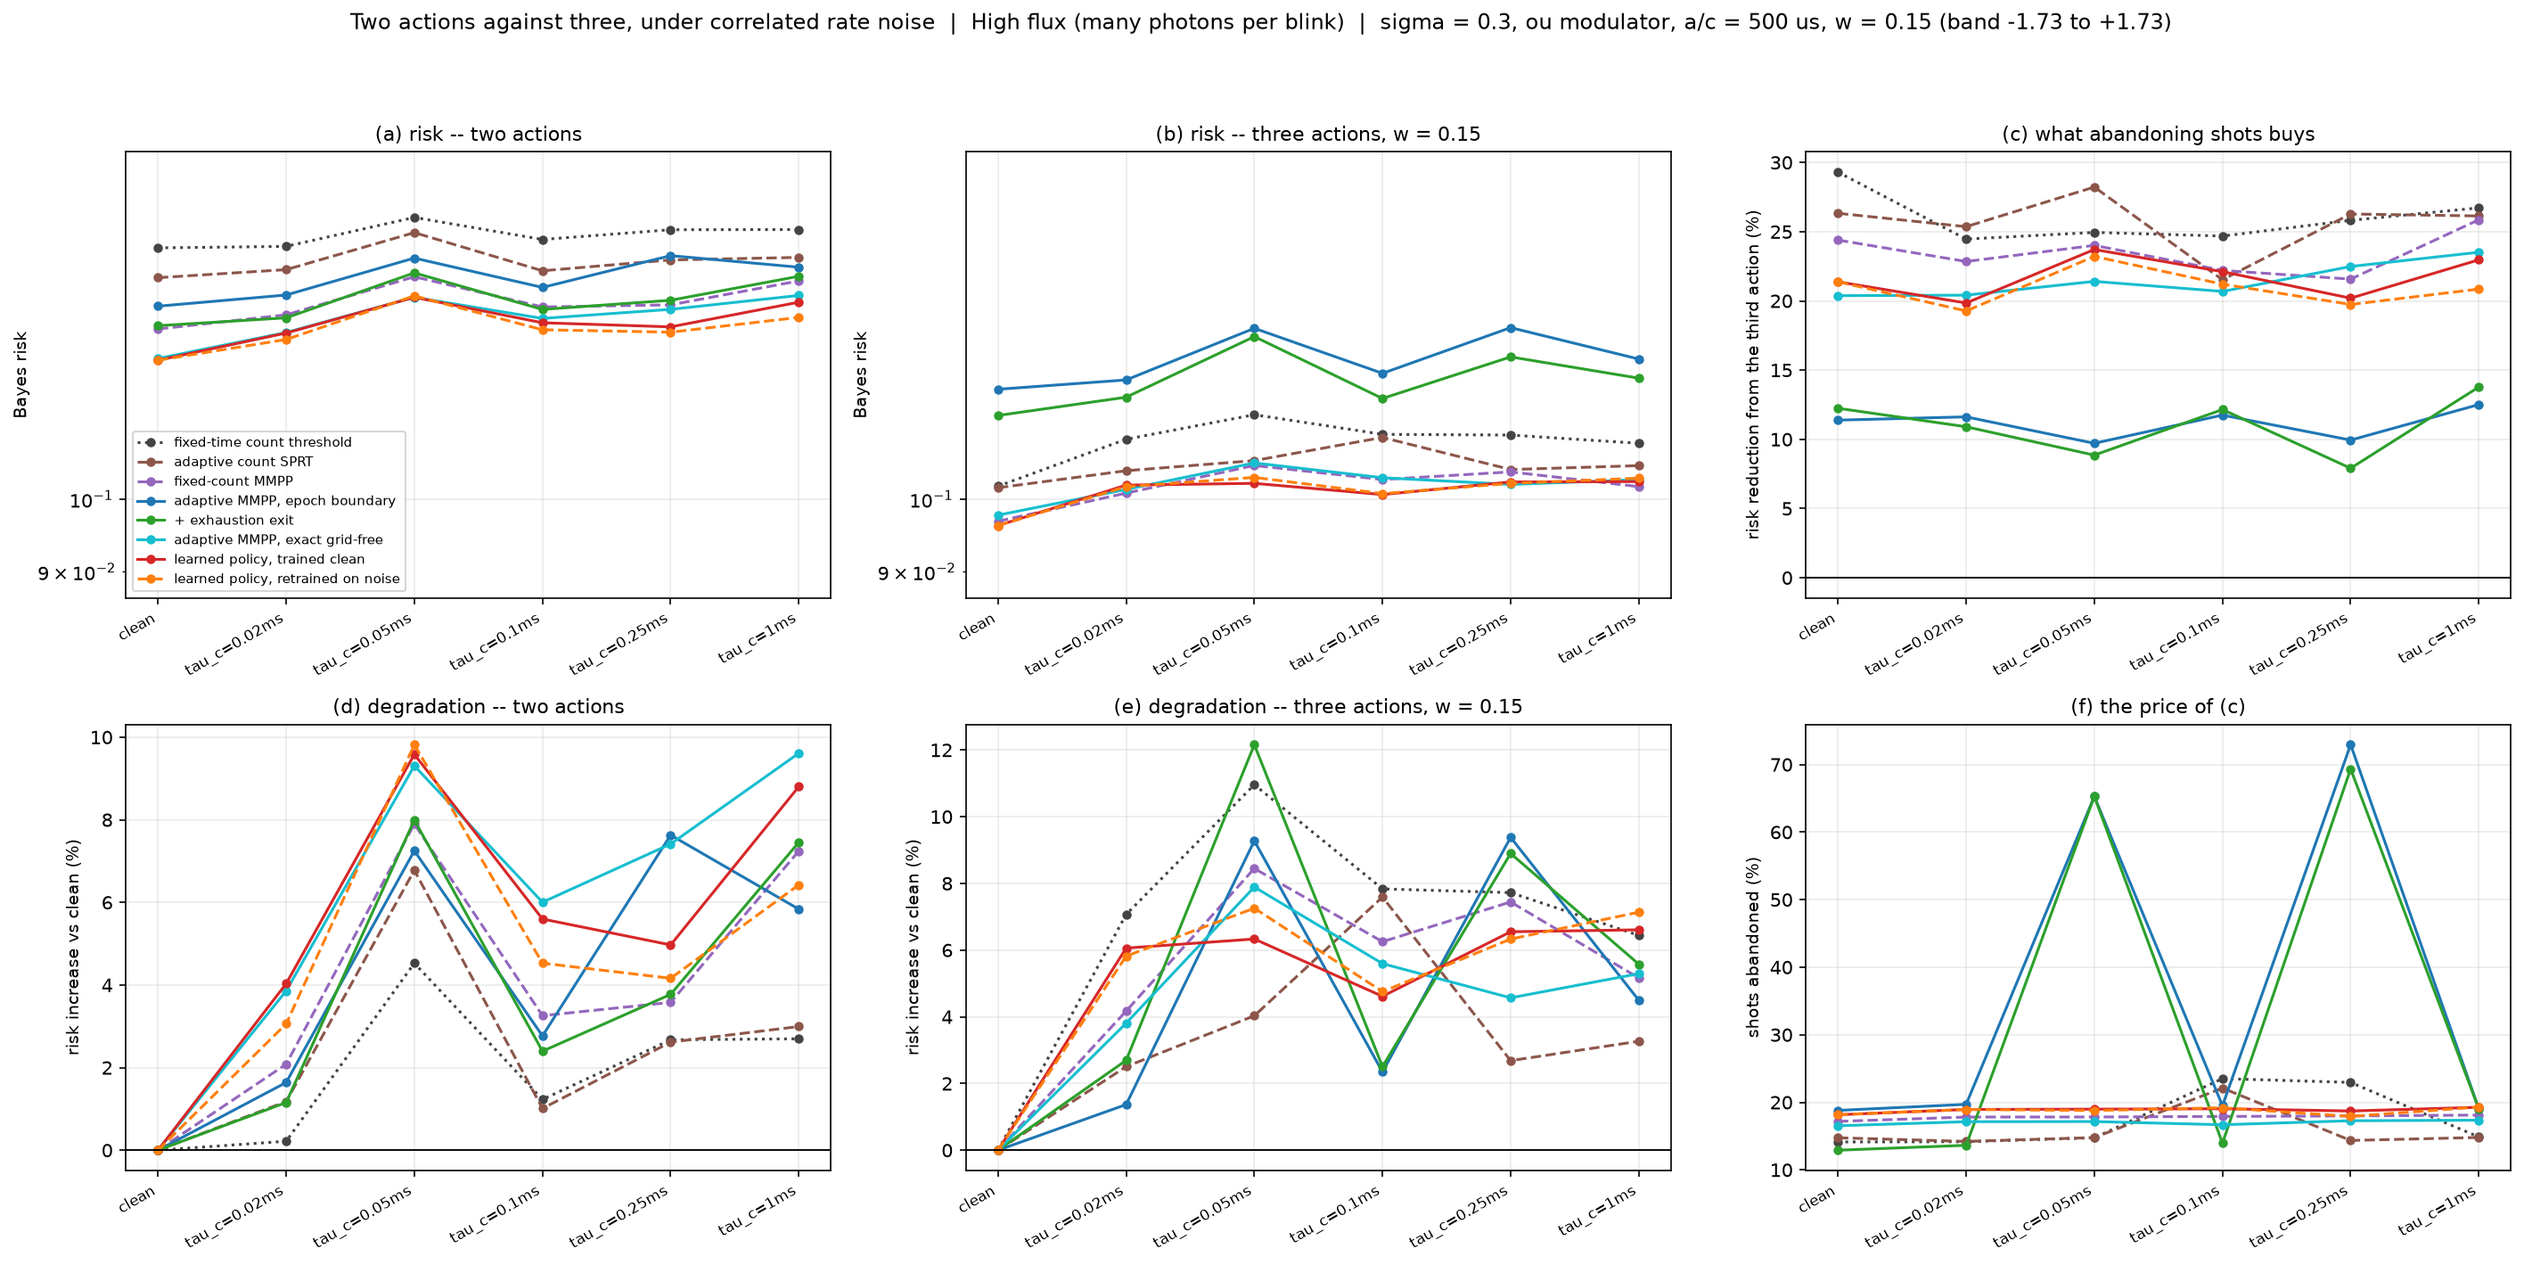
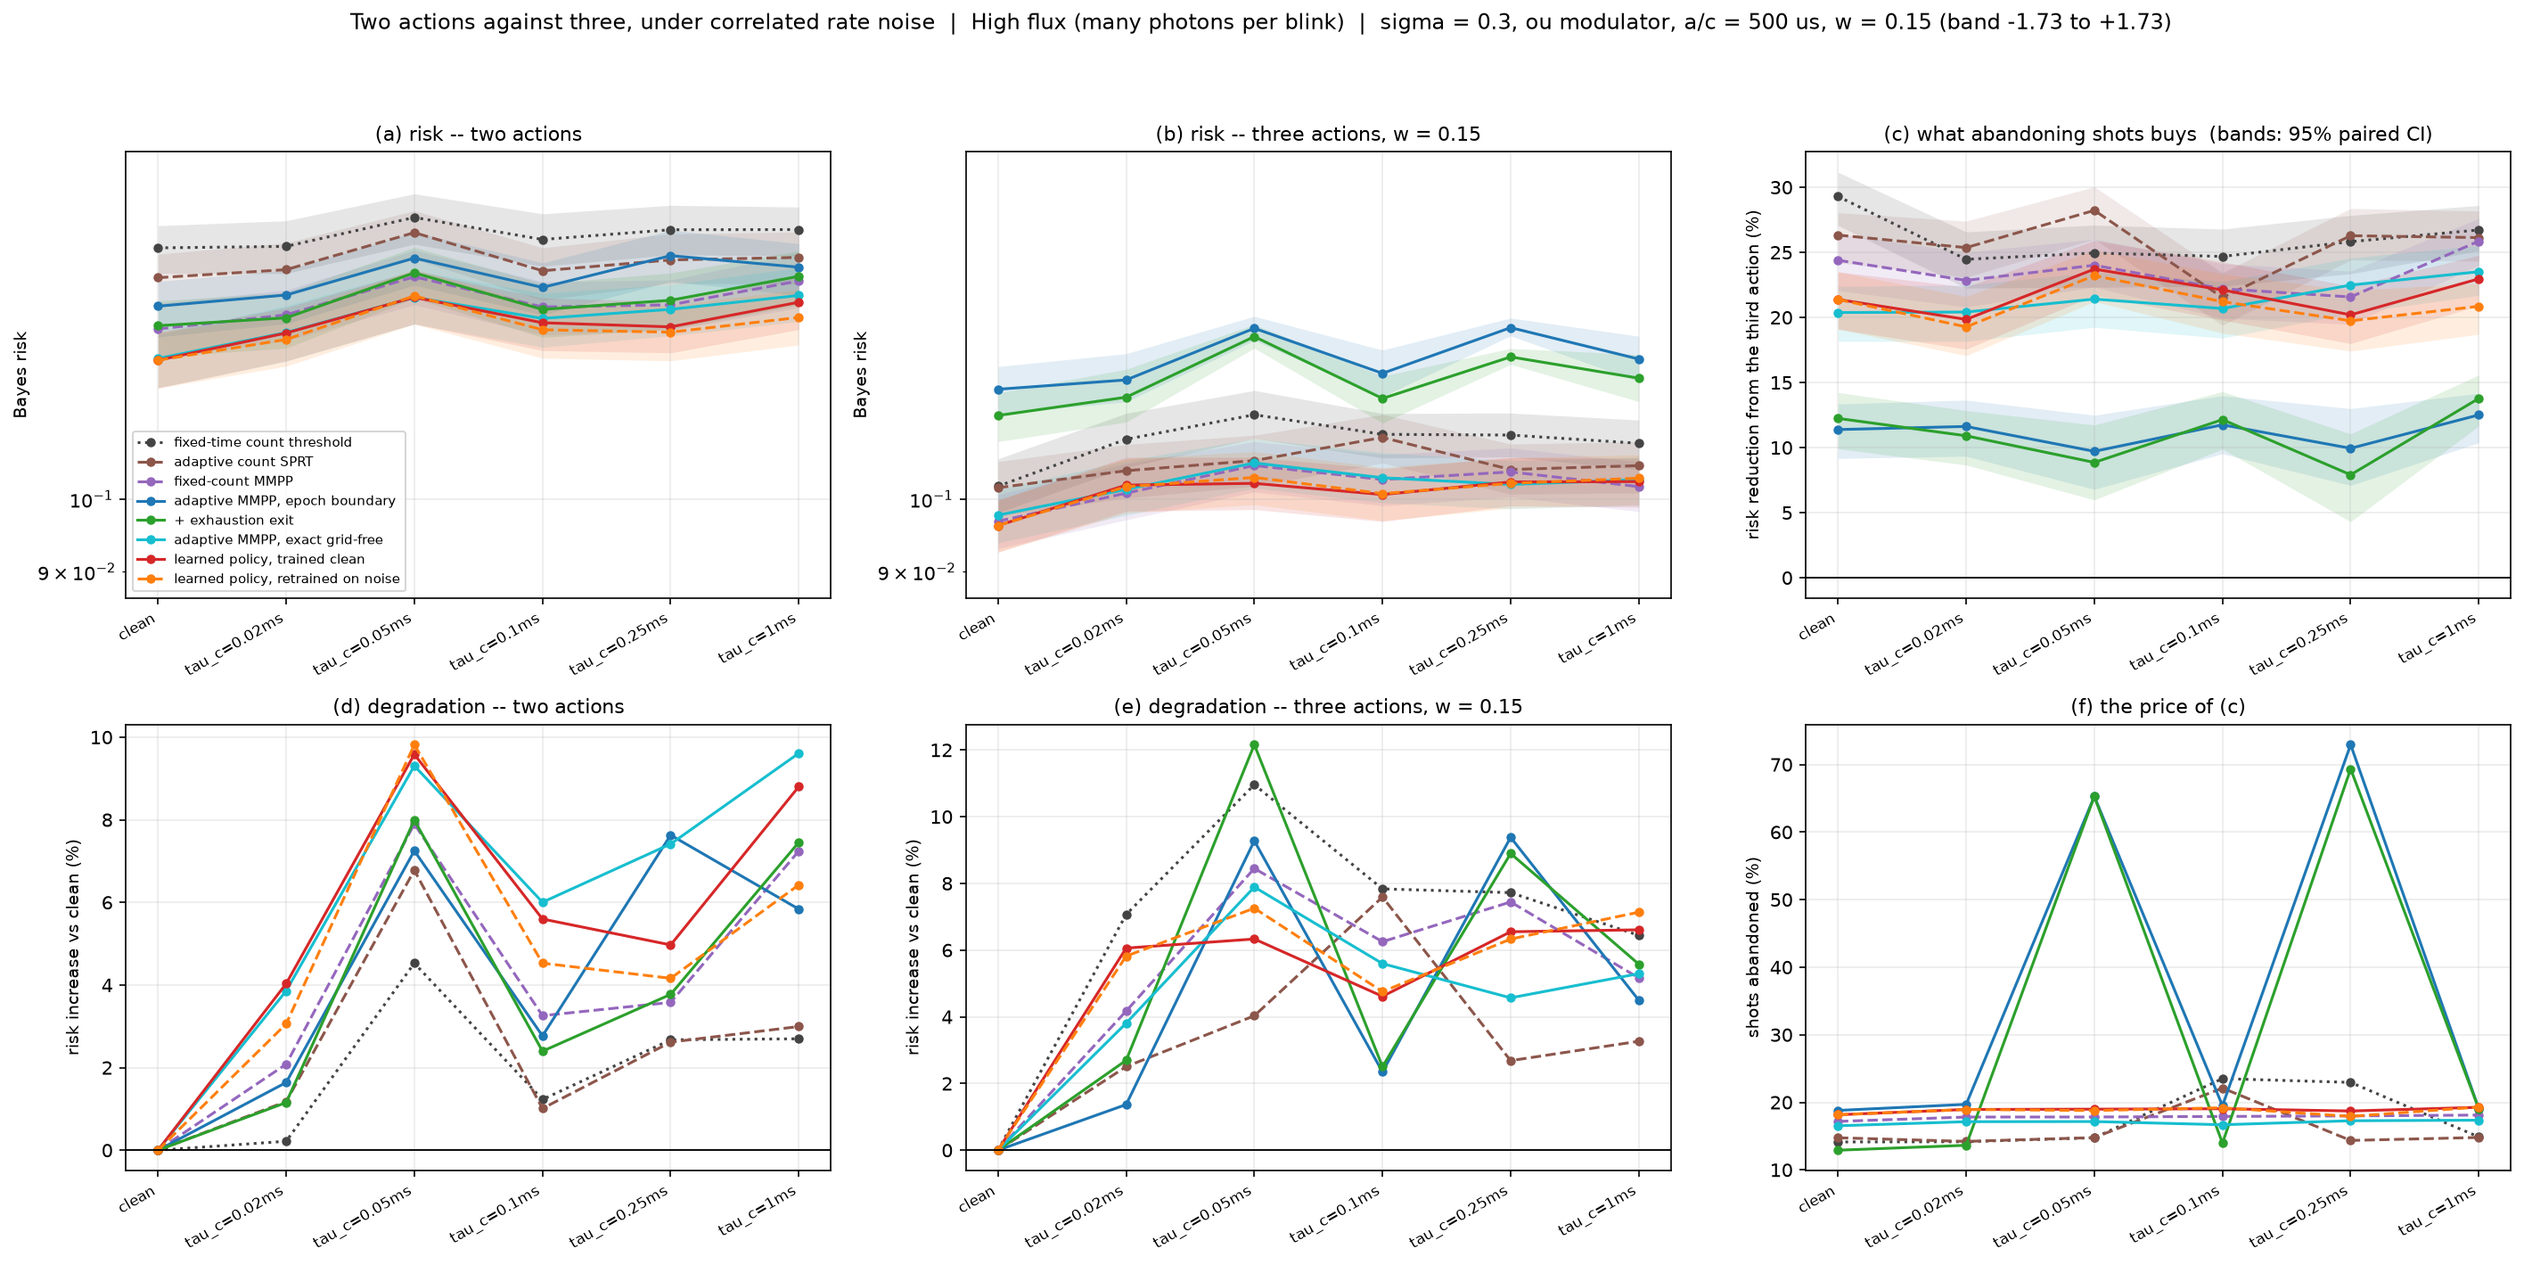
Put a risk panel on the discard figure, with intervals
The three-action figure had four panels and none of them plotted Bayes
risk -- the quantity the whole problem is posed in, and the only one of
these panels the rules can be ranked by. So the previous commit's claim
to have put error bars on the Bayes-risk results did not reach this
figure: there was nothing here to put them on. The risk comparison was
readable only in the printed table.

Two panels added. (e) risk against w for all three rules, with shaded
95% marginal bands and the "abandon everything at t = 0" line at risk =
w. (f) the paired difference against the better boundary at each w,
with intervals, coloured by whether the interval excludes zero.

(f) is the one to read, and the pair of panels shows why: the marginal
bands in (e) overlap almost everywhere while the paired difference
resolves at four of the seven costs, because every arm is scored on the
same resampled shots.

(e) also makes the structural result visible rather than tabular. At
the sparse point the learned policy's curve lies exactly on risk = w
while both boundary rules sit above it -- they cannot abandon
immediately, so they pay more than doing nothing.

Also replaced the default log minor ticks on the w axis, which collided
into an unreadable smear, with labels at the sampled costs.

Writeup: the correction table now carries intervals. Of the 17
non-degenerate (point, w) settings only 7 have a paired interval
excluding zero -- 4 wins and 3 losses -- so the earlier "wins 7 of 17,
[…]

diff --git a/adaptive_charge_state_master.py b/adaptive_charge_state_master.py
@@ -8622,6 +8622,7 @@ def run_discard_sweep(
         "epoch_dt_us": dt_us,
         "a_over_c": float(a_over_c),
         "rows": rows,
+        "n_boot": int(cfg.n_boot),
         "module_version": MODULE_VERSION,
     }
 
@@ -8744,7 +8745,16 @@ def export_discard_csv(
 
 def plot_discard_sweep(result: dict, save_path: str | None = None):
     """
-    Four panels: what the band costs, what it buys, and whether it is worth it.
+    Six panels: what the band costs, what it buys, and whether it is worth it.
+
+    Panels (e) and (f) carry the Bayes risk, which is the quantity the whole
+    three-action problem is posed in and the only one of these panels that
+    the rules can be ranked by -- and they are the reason this figure gained
+    two panels. It had none, so the risk comparison was readable only in the
+    printed table, and even there without uncertainty. (f) is the one to
+    read: the marginal bands in (e) overlap almost everywhere, while the
+    paired difference resolves at several w, because every arm is scored on
+    the same resampled shots.
     """
     import matplotlib
 
@@ -8755,31 +8765,40 @@ def plot_discard_sweep(result: dict, save_path: str | None = None):
     finite = [r for r in rows if np.isfinite(r["cost_discard"])]
     two = next((r for r in rows if not np.isfinite(r["cost_discard"])), None)
     w = np.array([r["cost_discard"] for r in finite])
-
-    fig, ax = plt.subplots(2, 2, figsize=(13.0, 9.5))
-
-    p = ax[0, 0]
-    for key, name, col in (
+    ARMS = (
         ("sprt", "epoch-grid boundary", "#1f77b4"),
         ("exact", "exact grid-free boundary", "#9467bd"),
         ("learned", "learned policy", "#d62728"),
-    ):
+    )
+
+    def _w_axis(p):
+        """Label the w axis at the sampled costs only.
+
+        Matplotlib's default log minor ticks collide into an unreadable
+        smear at these spacings, and the sampled w are the only x values
+        that exist anyway.
+        """
+        p.set_xscale("log")
+        p.invert_xaxis()
+        p.set_xticks(w)
+        p.set_xticklabels([f"{v:g}" for v in w], fontsize=8)
+        p.set_xticks([], minor=True)
+        p.set_xlabel("cost of discarding a shot, w  (cheaper to the right)")
+
+    fig, ax = plt.subplots(2, 3, figsize=(18.5, 9.5))
+
+    p = ax[0, 0]
+    for key, name, col in ARMS:
         p.plot(w, [100 * r[key]["discard_rate"] for r in finite], "-o",
                color=col, ms=5, label=name)
-    p.set_xscale("log")
-    p.invert_xaxis()
-    p.set_xlabel("cost of discarding a shot, w  (cheaper to the right)")
+    _w_axis(p)
     p.set_ylabel("shots abandoned (%)")
     p.set_title("(a) how much gets thrown away", fontsize=11)
     p.grid(alpha=0.25)
     p.legend(fontsize=9)
 
     p = ax[0, 1]
-    for key, name, col in (
-        ("sprt", "epoch-grid boundary", "#1f77b4"),
-        ("exact", "exact grid-free boundary", "#9467bd"),
-        ("learned", "learned policy", "#d62728"),
-    ):
+    for key, name, col in ARMS:
         p.plot([100 * r[key]["discard_rate"] for r in finite],
                [r[key]["accuracy_retained"] for r in finite],
                "-o", color=col, ms=5, label=name)
@@ -8794,26 +8813,20 @@ def plot_discard_sweep(result: dict, save_path: str | None = None):
     p.grid(alpha=0.25)
     p.legend(fontsize=9)
 
-    p = ax[1, 0]
-    for key, name, col in (
-        ("sprt", "epoch-grid boundary", "#1f77b4"),
-        ("exact", "exact grid-free boundary", "#9467bd"),
-        ("learned", "learned policy", "#d62728"),
-    ):
+    p = ax[0, 2]
+    for key, name, col in ARMS:
         p.plot(w, [r[key]["yield_per_ms"] for r in finite], "-o",
                color=col, ms=5, label=name)
         if two is not None:
             p.axhline(two[key]["yield_per_ms"], color=col, ls=":", lw=1.2,
                       label=f"{name}, no discard")
-    p.set_xscale("log")
-    p.invert_xaxis()
-    p.set_xlabel("cost of discarding a shot, w  (cheaper to the right)")
+    _w_axis(p)
     p.set_ylabel("retained shots per ms of readout")
     p.set_title("(c) throughput, which discarding cannot game", fontsize=11)
     p.grid(alpha=0.25)
     p.legend(fontsize=8)
 
-    p = ax[1, 1]
+    p = ax[1, 0]
     lo = np.array([r["band_lo"] for r in finite])
     hi = np.array([r["band_hi"] for r in finite])
     p.fill_between(w, lo, hi, color="#2ca02c", alpha=0.3,
@@ -8821,14 +8834,87 @@ def plot_discard_sweep(result: dict, save_path: str | None = None):
     p.plot(w, lo, "-", color="#2ca02c", lw=1.5)
     p.plot(w, hi, "-", color="#2ca02c", lw=1.5)
     p.axhline(0.0, color="k", lw=0.8, ls=":")
-    p.set_xscale("log")
-    p.invert_xaxis()
-    p.set_xlabel("cost of discarding a shot, w  (cheaper to the right)")
+    _w_axis(p)
     p.set_ylabel("LLR")
     p.set_title("(d) the inconclusive band widens as discard gets cheap",
                 fontsize=11)
     p.grid(alpha=0.25)
     p.legend(fontsize=9)
+
+    # (e) the currency the problem is actually posed in. The marginal bands
+    # are shaded rather than drawn as bars because they overlap so heavily
+    # that bars would be unreadable -- which is the point panel (f) makes.
+    p = ax[1, 1]
+    for key, name, col in ARMS:
+        r_mid = np.array([r[key]["risk"] for r in finite])
+        ci = np.array(
+            [r[key].get("risk_ci", (np.nan, np.nan)) for r in finite],
+            dtype=float,
+        )
+        p.plot(w, r_mid, "-o", color=col, ms=5, label=name)
+        if np.isfinite(ci).all():
+            p.fill_between(w, ci[:, 0], ci[:, 1], color=col, alpha=0.15, lw=0)
+        if two is not None:
+            p.axhline(two[key]["risk"], color=col, ls=":", lw=1.0)
+    # No rule can beat "abandon everything at t = 0", which costs exactly w.
+    p.plot(w, w, color="k", lw=1.2, ls="--",
+           label="abandon everything (risk = w)")
+    _w_axis(p)
+    p.set_yscale("log")
+    p.set_ylabel("Bayes risk")
+    p.set_title(
+        "(e) Bayes risk, 95% paired bands  (dotted = no discard allowed)",
+        fontsize=11,
+    )
+    p.grid(alpha=0.25, which="both")
+    p.legend(fontsize=8)
+
+    # (f) the paired difference, which is what the marginal bands in (e)
+    # cannot show. Against the BETTER boundary at each w, so the learned
+    # policy is never credited for beating a handicapped opponent.
+    p = ax[1, 2]
+    red = np.array([r["risk_reduction_pct"] for r in finite])
+    ref = [
+        "exact" if r["exact"]["risk"] <= r["sprt"]["risk"] else "sprt"
+        for r in finite
+    ]
+    pci = [
+        r.get("pair_ci", {}).get(f"learned_vs_{k}") for r, k in zip(finite, ref)
+    ]
+    lo_e = np.array(
+        [red[i] - (c["lo"] if c else np.nan) for i, c in enumerate(pci)]
+    )
+    hi_e = np.array(
+        [(c["hi"] if c else np.nan) - red[i] for i, c in enumerate(pci)]
+    )
+    resolved = np.array([bool(c and c["resolved"]) for c in pci])
+    xi = np.arange(len(finite))
+    for mask, col, lab in (
+        (resolved, "#d62728", "interval excludes zero"),
+        (~resolved, "#999999", "not resolved"),
+    ):
+        if mask.any():
+            p.errorbar(
+                xi[mask], red[mask],
+                yerr=np.vstack([lo_e[mask], hi_e[mask]]),
+                fmt="o", color=col, ms=6, capsize=4, lw=1.4, label=lab,
+            )
+    for i, r in enumerate(finite):
+        if r["degenerate"]:
+            p.annotate("(d)", (xi[i], red[i]), textcoords="offset points",
+                       xytext=(7, -3), fontsize=7, color="#555555")
+    p.axhline(0.0, color="k", lw=1.0)
+    p.set_xticks(xi)
+    p.set_xticklabels([f"{v:g}" for v in w], fontsize=8)
+    p.set_xlabel("cost of discarding a shot, w  (cheaper to the right)")
+    p.set_ylabel("learned vs better boundary (% risk reduction)")
+    p.set_title(
+        f"(f) the paired difference, {result.get('n_boot', 0)} resamples",
+        fontsize=11,
+    )
+    p.margins(y=0.18)
+    p.grid(alpha=0.25, axis="y")
+    p.legend(fontsize=8, loc="upper left")
 
     reg = result["regime"]
     fig.suptitle(

diff --git a/results/README.md b/results/README.md
@@ -318,23 +318,42 @@ at the moderate point. The exact grid-free SPRT — the strongest rule in this
 repo, and the one every main sweep uses — could not discard at all, because
 `run_sprt` took no economics. It can now, and the comparison changes:
 
-| point | w | epoch boundary | **exact boundary** | learned | learned vs exact |
-|---|---|---|---|---|---|
-| moderate | ∞ | 0.1025 | **0.0907** | 0.0919 | −1.4% |
-| moderate | 0.45 | 0.1024 | **0.0907** | 0.0885 | +2.4% |
-| moderate | 0.25 | 0.1013 | **0.0857** | 0.0863 | −0.6% |
-| moderate | 0.15 | 0.1009 | **0.0809** | 0.0783 | +3.1% |
-| moderate | 0.08 | 0.0762 | **0.0746** | 0.0680 | **+8.8%** |
-| high flux | 0.25 | 0.1218 | **0.1115** | 0.1122 | −0.6% |
-| high flux | 0.15 | 0.1111 | **0.0961** | 0.0959 | +0.3% |
-| sparse | ∞ | 0.3206 | **0.3170** | 0.3196 | −0.8% |
+| point | w | epoch boundary | **exact boundary** | learned | learned vs exact | 95% CI |
+|---|---|---|---|---|---|---|
+| moderate | ∞ | 0.1025 | **0.0907** | 0.0919 | −1.4% | [−4.2, +1.2] ns |
+| moderate | 0.45 | 0.1024 | **0.0907** | 0.0885 | **+2.4%** | [+0.2, +4.8] |
+| moderate | 0.35 | 0.1021 | **0.0889** | 0.0884 | +0.5% | [−1.4, +2.5] ns |
+| moderate | 0.25 | 0.1013 | **0.0857** | 0.0863 | −0.6% | [−2.8, +1.3] ns |
+| moderate | 0.15 | 0.1009 | **0.0809** | 0.0783 | **+3.1%** | [+0.8, +5.2] |
+| moderate | 0.08 | 0.0762 | **0.0746** | 0.0680 | **+8.8%** | [+5.3, +12.4] |
+| high flux | 0.25 | 0.1218 | **0.1115** | 0.1122 | −0.6% | [−2.1, +1.0] ns |
+| high flux | 0.15 | 0.1111 | **0.0961** | 0.0959 | +0.3% | [−1.0, +1.5] ns |
+| high flux | 0.04 | 0.0403 | **0.0397** | 0.0374 | **+5.9%** | [+4.1, +8.1] |
+| sparse | ∞ | 0.3206 | **0.3170** | 0.3196 | **−0.8%** | [−1.3, −0.3] |
+
+(`ns` = the paired interval contains zero. 7200 test shots per state, 400
+stratified paired resamples; the resampling is over test shots with the
+tuned configuration held fixed, so the estimand is the risk of *this fitted
+rule* on the population.)
 
 Almost the whole apparent advantage was the epoch grid, not the policy.
-Against the proper incumbent the learned policy is a **wash** — it wins 7 of
-the 17 non-degenerate (point, w) settings and the exact boundary wins 10,
-with margins under 1% in most of them. The one place it clearly leads is
-w ≈ 0.08 at the moderate point, +8.8%, where it abandons 17% of shots
-against the boundary's 70% and still comes out cheaper.
+
+**Corrected again, by putting intervals on it.** An earlier version of this
+paragraph read the point estimates as a scoreboard — "wins 7 of the 17
+non-degenerate settings, the exact boundary wins 10". Most of those margins
+are smaller than their own uncertainty. Of the 17, only **7 have a paired
+interval excluding zero**: four wins for the learned policy (+2.4%, +3.1%,
++8.8% at the moderate point, +5.9% at high flux) and three losses (the three
+sparse rows at w ≥ 0.35, all −0.8%, where the band is too narrow to abstain
+and the comparison collapses onto the two-action one). The other ten are
+ties. "Wins 7, loses 10" was reporting the sign of noise.
+
+The conclusion survives and is if anything cleaner: against the proper
+incumbent the learned policy is a **wash almost everywhere**, with a real
+but narrow advantage where the discard cost is low enough to matter. The
+clearest case is w ≈ 0.08 at the moderate point, +8.8% [+5.3, +12.4], where
+it abandons 17% of shots against the boundary's 70% and still comes out
+cheaper.
 
 This reinforces rather than undermines the earlier optimal-stopping finding:
 a tuned constant boundary with a calibrated offset is close to the Bayes
@@ -351,13 +370,19 @@ costing the boundary rule real time, not just decision resolution.
 
 **Abandoning every shot at t = 0 is always feasible and costs exactly w, so
 no optimal rule can exceed w.** That is the sharpest available check on the
-whole formulation, and it separates the two rules cleanly: the learned policy
-respects it at every discard cost tested, while the tuned constant boundary
-**violates it** at w = 0.04 and 0.02 (risk 0.0425 and 0.0232 against w = 0.04
-and 0.02 at the moderate point). It has no way to express "abandon
-immediately" — it cannot stop before its boundary is crossed. With only two
-actions the boundary rule was merely suboptimal; with three it is
-*inadmissible* at small w, beaten by doing nothing.
+whole formulation, and it separates the rules cleanly. Across the 21 rows
+with a finite w, the learned policy violates the bound **0 times**, the
+epoch boundary **8** and even the exact grid-free boundary **7** — including
+every row at the sparse point, where the epoch rule pays 0.1550 against
+w = 0.15 and 0.0896 against w = 0.08. Neither boundary rule has any way to
+express "abandon immediately" — it cannot stop before its boundary is
+crossed, and the cheapest thing it can do is cross one early and pay for
+the shot anyway.
+With only two actions the boundary rule was merely suboptimal; with three it
+is *inadmissible* at small w, beaten by doing nothing. This is the one place
+in the whole comparison where the learned policy is not merely competitive
+with the exact boundary but categorically better, and it is structural
+rather than statistical — no amount of tuning (L, offset, deadline) fixes it.
 
 **The degenerate solution is real and is flagged, not hidden.** Below
 w ≈ 0.04 the optimal policy is to discard everything: risk w exactly, yield
